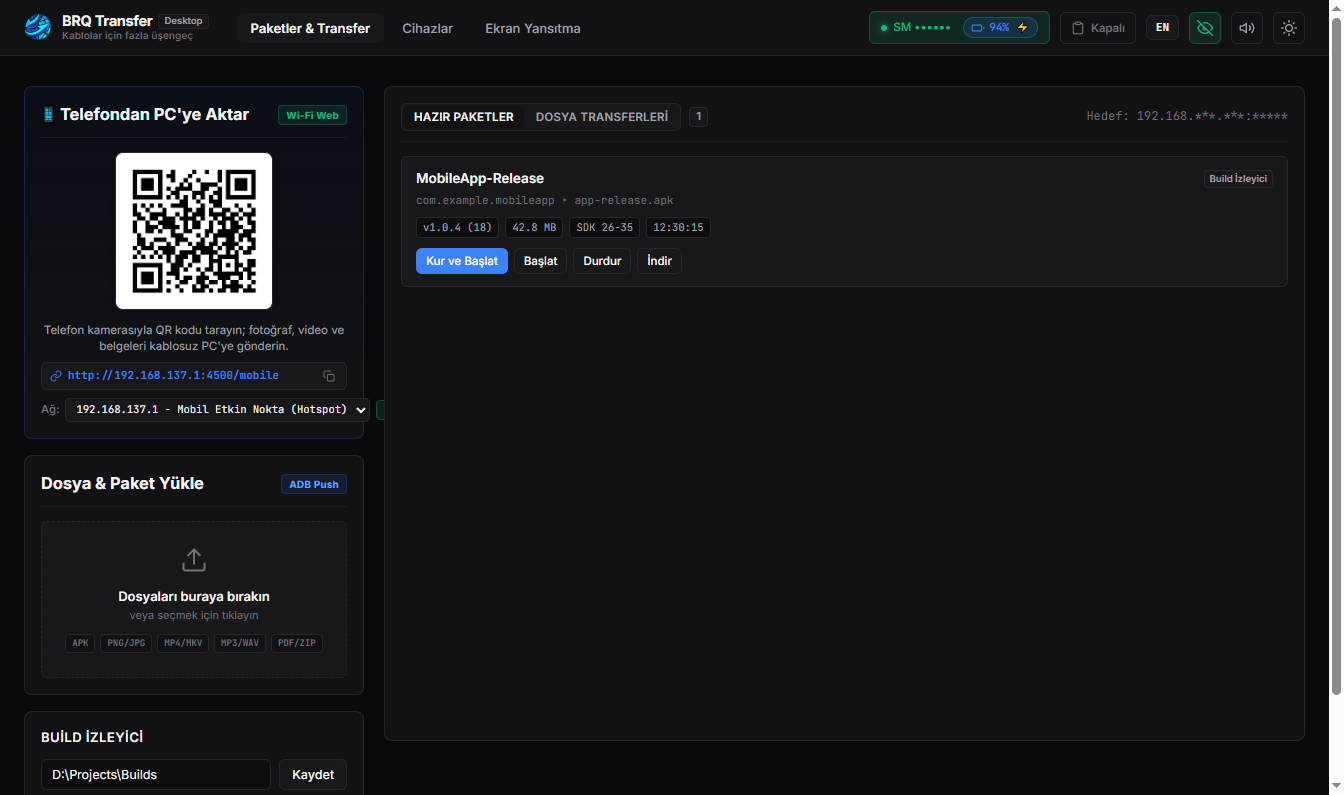
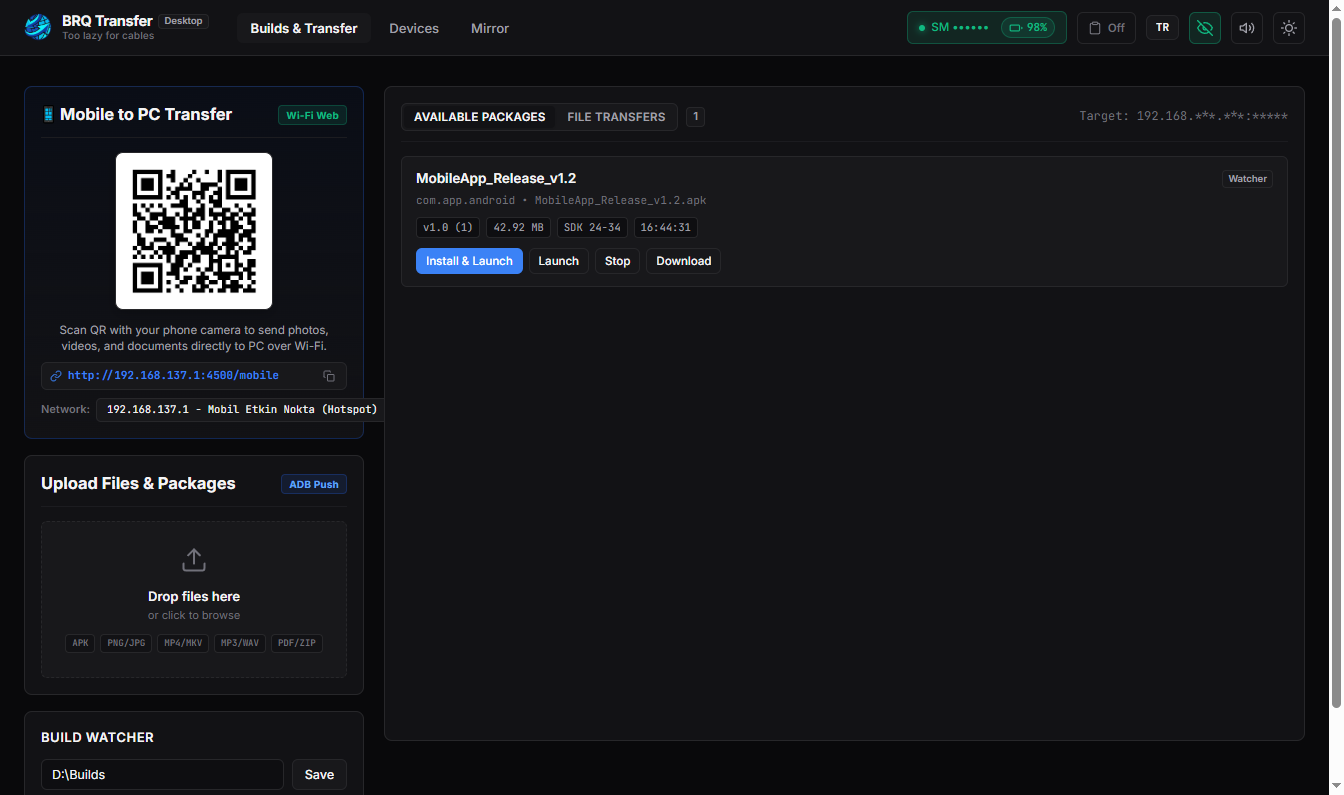
docs: update preview screenshot to English interface and fix BOM handling in server

diff --git a/server.js b/server.js
@@ -41,7 +41,8 @@ let config = {
 
 if (fs.existsSync(CONFIG_FILE)) {
     try {
-        config = { ...config, ...JSON.parse(fs.readFileSync(CONFIG_FILE, 'utf8')) };
+        const rawConfig = fs.readFileSync(CONFIG_FILE, 'utf8').replace(/^\uFEFF/, '');
+        config = { ...config, ...JSON.parse(rawConfig) };
     } catch (e) {
         console.error('Config read error:', e.message);
     }
